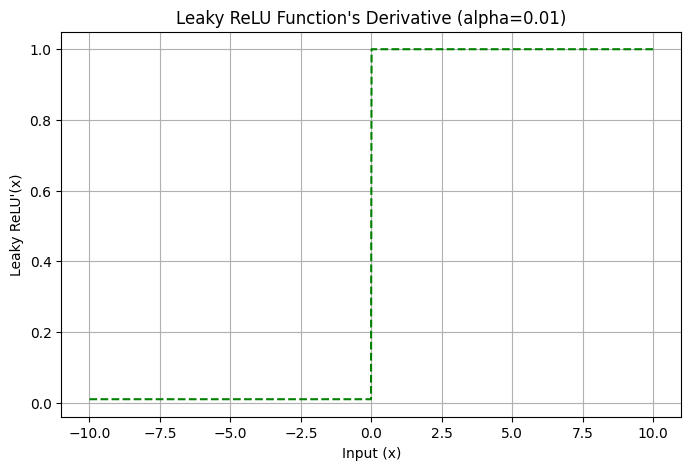
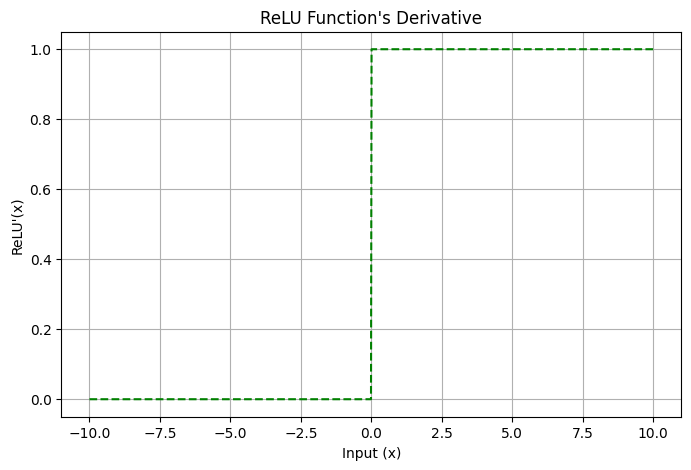
adds few activation function with grpah

diff --git a/README.md b/README.md
@@ -1,1 +1,273 @@
-# list-of-all-imp-activation-functions
+# activation functions and Their Derivatives
+
+1. **Sigmoid**
+2. **Tanh**
+3. **ReLU**
+4. **Leaky ReLU**
+5. **Parametric ReLU**
+6. **GELU**
+7. **SiLU**
+8. **Softmax**
+9. **ELU**
+10. **SELU**
+11. **Softplus**
+12. **Mish**
+
+
+---
+
+## 1. Sigmoid Function
+
+The Sigmoid function is defined as:
+
+\[
+\sigma(x) = \frac{1}{1 + e^{-x}}
+\]
+
+Its derivative is:
+
+\[
+\sigma'(x) = \sigma(x) \cdot (1 - \sigma(x))
+\]
+
+### Graph:
+![Sigmoid Function and Derivative](path/to/sigmoid_graph.png)
+
+---
+
+## 2. Tanh Function
+
+The Tanh (hyperbolic tangent) function is defined as:
+
+\[
+\tanh(x) = \frac{e^x - e^{-x}}{e^x + e^{-x}}
+\]
+
+Its derivative is:
+
+\[
+\tanh'(x) = 1 - \tanh^2(x)
+\]
+
+### Graph:
+![Tanh Function and Derivative](path/to/tanh_graph.png)
+
+---
+
+## 3. ReLU Function
+
+The ReLU (Rectified Linear Unit) function is defined as:
+
+\[
+\text{ReLU}(x) = \max(0, x)
+\]
+
+Its derivative is:
+
+\[
+\text{ReLU}'(x) = \begin{cases} 
+1 & x > 0 \\
+0 & x \leq 0 
+\end{cases}
+\]
+
+### Graph:
+![ReLU Function and Derivative](path/to/relu_graph.png)
+
+---
+
+## 4. Leaky ReLU Function
+
+Leaky ReLU introduces a small slope for negative values:
+
+\[
+\text{Leaky ReLU}(x) = \begin{cases} 
+x & x > 0 \\
+\alpha \cdot x & x \leq 0 
+\end{cases}
+\]
+
+Its derivative is:
+
+\[
+\text{Leaky ReLU}'(x) = \begin{cases} 
+1 & x > 0 \\
+\alpha & x \leq 0 
+\end{cases}
+\]
+
+### Graph:
+![Leaky ReLU Function and Derivative](path/to/leaky_relu_graph.png)
+
+---
+
+## 5. Parametric ReLU (PReLU)
+
+The Parametric ReLU function allows the slope of the negative part to be learned:
+
+\[
+\text{PReLU}(x) = \begin{cases} 
+x & x > 0 \\
+\alpha \cdot x & x \leq 0 
+\end{cases}
+\]
+
+Its derivative is:
+
+\[
+\text{PReLU}'(x) = \begin{cases} 
+1 & x > 0 \\
+\alpha & x \leq 0 
+\end{cases}
+\]
+
+### Graph:
+![PReLU Function and Derivative](path/to/prelu_graph.png)
+
+---
+
+## 6. GELU (Gaussian Error Linear Unit)
+
+The GELU function is defined as:
+
+\[
+\text{GELU}(x) = 0.5 \cdot x \cdot \left(1 + \tanh\left(\sqrt{\frac{2}{\pi}} \left(x + 0.044715 \cdot x^3\right)\right)\right)
+\]
+
+Its derivative is complex but provides smooth gradients across values.
+
+### Graph:
+![GELU Function and Derivative](path/to/gelu_graph.png)
+
+---
+
+## 7. SiLU (Sigmoid Linear Unit)
+
+The SiLU (also known as Swish) is defined as:
+
+\[
+\text{SiLU}(x) = x \cdot \sigma(x)
+\]
+
+Its derivative is:
+
+\[
+\text{SiLU}'(x) = \sigma(x) + x \cdot \sigma'(x)
+\]
+
+### Graph:
+![SiLU Function and Derivative](path/to/silu_graph.png)
+
+---
+
+## 8. Softmax Function
+
+Softmax is defined as:
+
+\[
+\text{Softmax}(x_i) = \frac{e^{x_i}}{\sum_{j} e^{x_j}}
+\]
+
+Its derivative is:
+
+\[
+\text{Softmax}'(x) = \text{Softmax}(x) \cdot (1 - \text{Softmax}(x))
+\]
+
+### Graph:
+![Softmax Function and Derivative](path/to/softmax_graph.png)
+
+---
+
+## 9. ELU (Exponential Linear Unit)
+
+The ELU function is defined as:
+
+\[
+\text{ELU}(x) = \begin{cases} 
+x & x \geq 0 \\
+\alpha \cdot (e^x - 1) & x < 0 
+\end{cases}
+\]
+
+Its derivative is:
+
+\[
+\text{ELU}'(x) = \begin{cases} 
+1 & x \geq 0 \\
+\alpha \cdot e^x & x < 0 
+\end{cases}
+\]
+
+### Graph:
+![ELU Function and Derivative](path/to/elu_graph.png)
+
+---
+
+## 10. SELU (Scaled Exponential Linear Unit)
+
+The SELU function is similar to ELU but scales the output:
+
+\[
+\text{SELU}(x) = \lambda \cdot \begin{cases} 
+x & x \geq 0 \\
+\alpha \cdot (e^x - 1) & x < 0 
+\end{cases}
+\]
+
+Its derivative is:
+
+\[
+\text{SELU}'(x) = \lambda \cdot \begin{cases} 
+1 & x \geq 0 \\
+\alpha \cdot e^x & x < 0 
+\end{cases}
+\]
+
+### Graph:
+![SELU Function and Derivative](path/to/selu_graph.png)
+
+---
+
+## 11. Softplus Function
+
+The Softplus function is a smooth approximation to ReLU:
+
+\[
+\text{Softplus}(x) = \log(1 + e^x)
+\]
+
+Its derivative is:
+
+\[
+\text{Softplus}'(x) = \sigma(x)
+\]
+
+### Graph:
+![Softplus Function and Derivative](path/to/softplus_graph.png)
+
+---
+
+## 12. Mish Function
+
+The Mish function is defined as:
+
+\[
+\text{Mish}(x) = x \cdot \tanh(\log(1 + e^x))
+\]
+
+Its derivative involves a complex combination of terms but retains smooth gradients.
+
+### Graph:
+![Mish Function and Derivative](path/to/mish_graph.png)
+
+---
+
+### Usage
+To run the code and generate the graphs, run the `main()` function in the provided script. The graphs are saved to the `./graphs` folder.
+
+### Installation
+1. Clone the repository
+2. Install dependencies:
+   ```bash
+   pip install jax matplotlib
